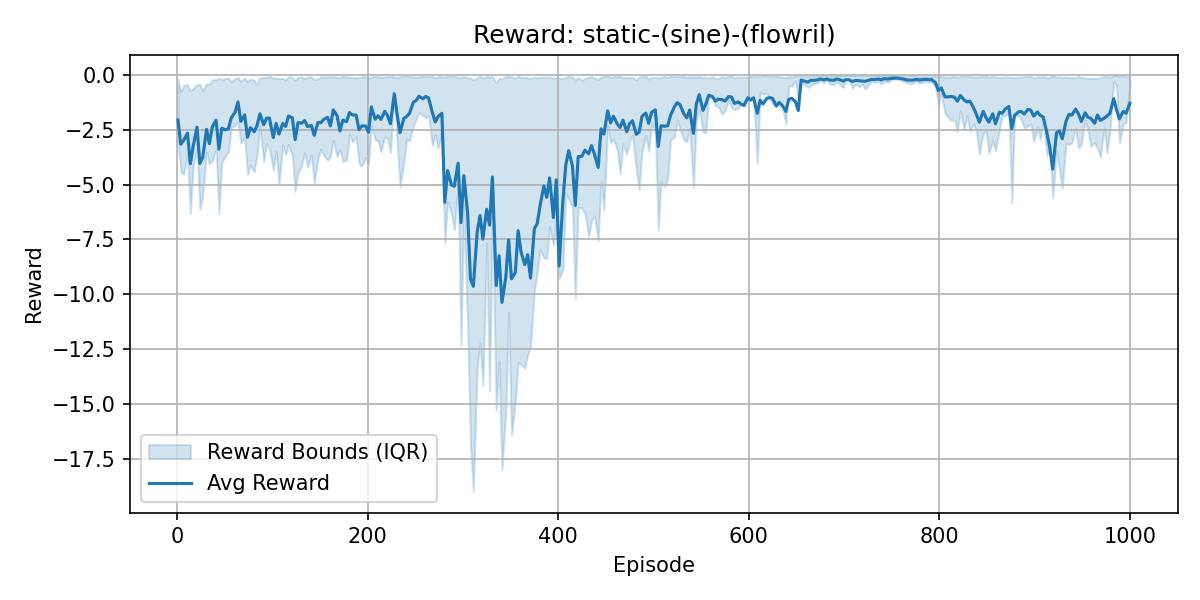
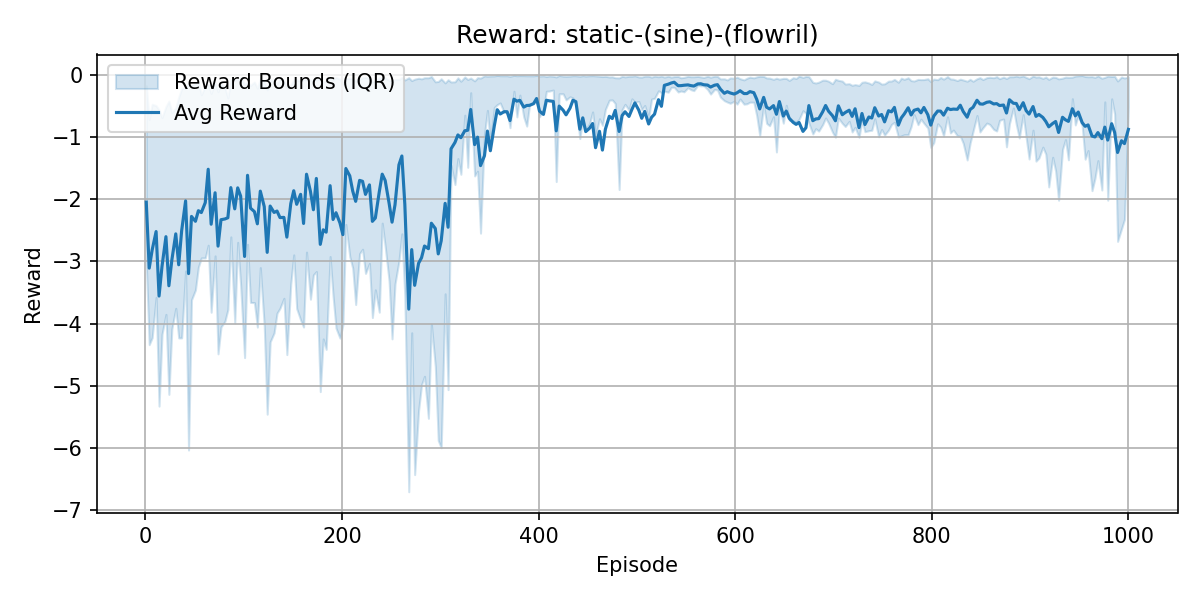
setup

Changed region(s): [[0.0, 0.09, 0.9867, 0.93], [0.37, 0.03, 0.7092, 0.09], [0.4933, 0.93, 0.5858, 0.96]]

diff --git a/modril/toy/gail.py b/modril/toy/gail.py
@@ -1,6 +1,7 @@
 import torch
 import torch.nn as nn
-from modril.toy.discriminators import Discriminator, MI_Estimator, FFJORDDensity, FlowMatching, CoupledFlowMatching, _jacobian_frobenius, _hutchinson_div
+from modril.toy.discriminators import Discriminator, MI_Estimator, FFJORDDensity, FlowMatching, CoupledFlowMatching, \
+    _jacobian_frobenius, _hutchinson_div
 import numpy as np
 from modril.modril.model_base_diffusion import MBDScore
 from modril.toy.utils import dynamic_convert
@@ -293,7 +294,8 @@ class GAIL_MBD:
             device='cuda',
             mbd_kwargs: dict | None = None
     ):
-        self.mbd = MBDScore(env, env_name, steps=steps, device=device, state_dim=state_dim, action_dim=action_dim, **(mbd_kwargs or {}))
+        self.mbd = MBDScore(env, env_name, steps=steps, device=device, state_dim=state_dim, action_dim=action_dim,
+                            **(mbd_kwargs or {}))
         self.agent = agent
         self.device = device
         self.state_dim = state_dim
@@ -339,8 +341,9 @@ class GAIL_MBD:
             dones=[False] * len(agent_s)
         ))
 
+
 class GAIL_FlowShare:
-    def __init__(self, agent, state_dim, action_dim, device, lr=1e-3, beta_anti=1e-6, gamma_stab=1e-8):
+    def __init__(self, agent, state_dim, action_dim, device, lr=1e-3, beta_anti=1e-4, gamma_stab=1.05e-10):
         self.device, self.agent = device, agent
         self.beta_anti, self.gamma_stab = beta_anti, gamma_stab
         self.field = CoupledFlowMatching(state_dim, action_dim).to(device)

diff --git a/modril/toy/env.py b/modril/toy/env.py
@@ -113,14 +113,14 @@ class Environment1DStatic:
         random sample
         """
         idx = np.random.randint(len(self.x_norm))
-        s0 = float(self.x_norm[idx])
+        s0 = self.x_norm[idx].item()
         self.state = s0
         self.step_count = 0
         return s0
 
-    def step(self, predicted_y: float):
+    def step(self, predicted_y):
         s_scalar = float(self.state)
-        a_scalar = float(predicted_y)
+        a_scalar = predicted_y.item()
         true_y = self.get_true_y(s_scalar)
         error = a_scalar - true_y
         reward = - (error ** 2)
@@ -440,6 +440,7 @@ class SineEnv:
         self.step_count = 0
 
     def seed(self, seed=0):
+        from gym.envs.mujoco import mujoco_env
         mujoco_env.MujocoEnv.seed(self, seed)
 
     def get_reward(self, predicted_y, true_y):

diff --git a/modril/toy/trainer.py b/modril/toy/trainer.py
@@ -174,7 +174,7 @@ class Trainer:
                 v_c, r = estimator.net(mix_a, s_mix, t)
                 loss_anti = _hutchinson_div(mix_a, r, k=1).square().mean()
                 j_pen = _jacobian_frobenius(mix_a, v_c + r).mean()
-                loss = loss_fm + loss_A + 1e-4 * loss_anti + 2.3e-10 * j_pen
+                loss = loss_fm + loss_A + 1e-4 * loss_anti + 1.1e-10 * j_pen
             else:
                 loss = estimator.deen_loss(x0)
 
